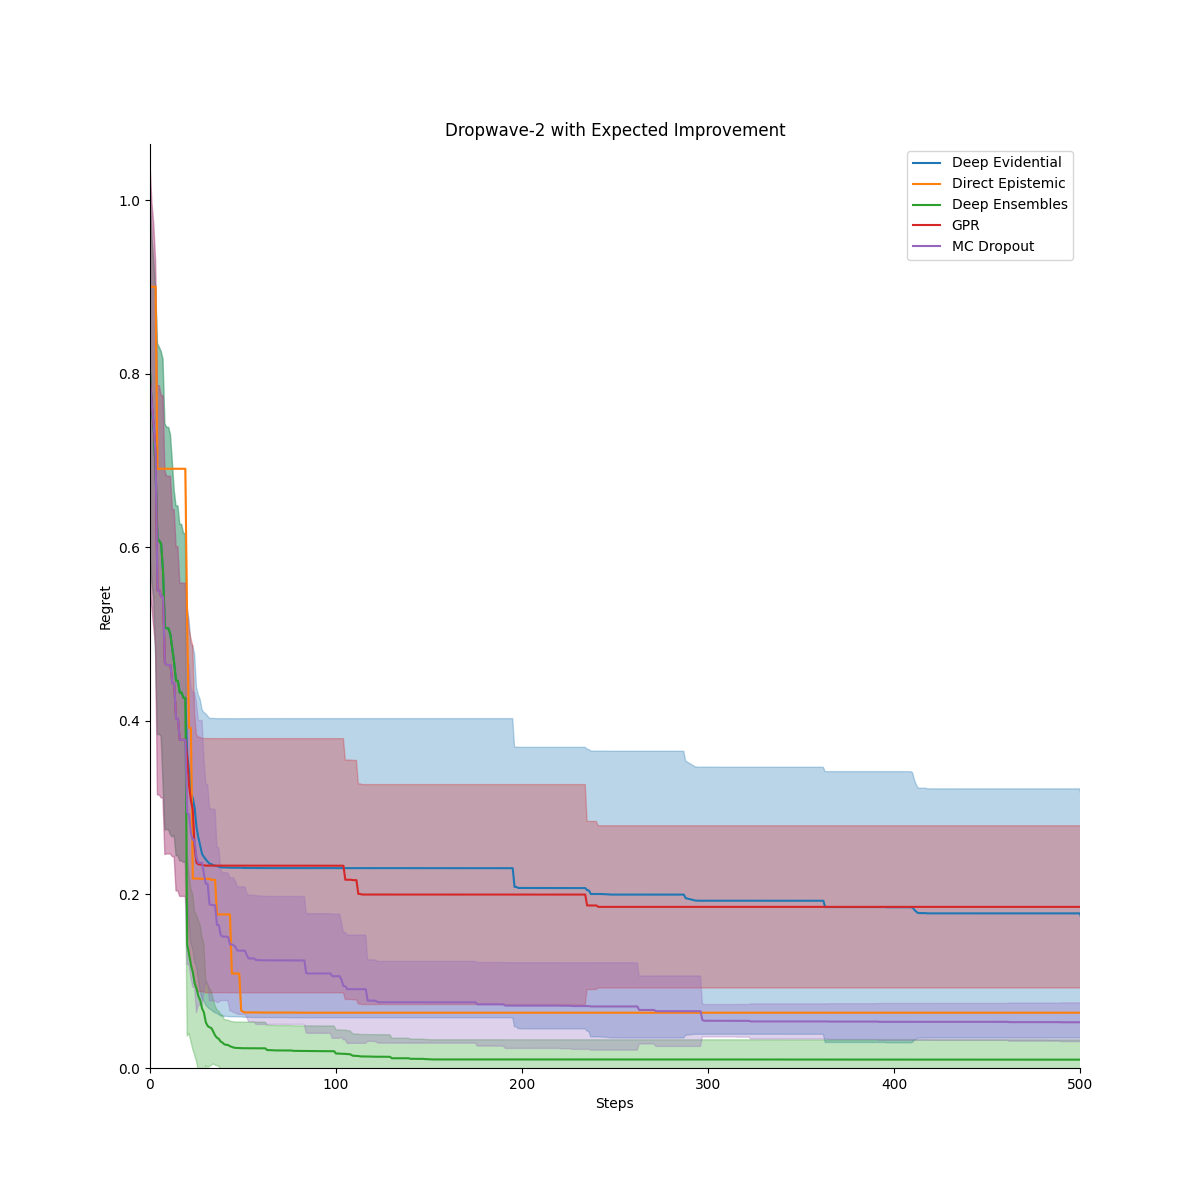
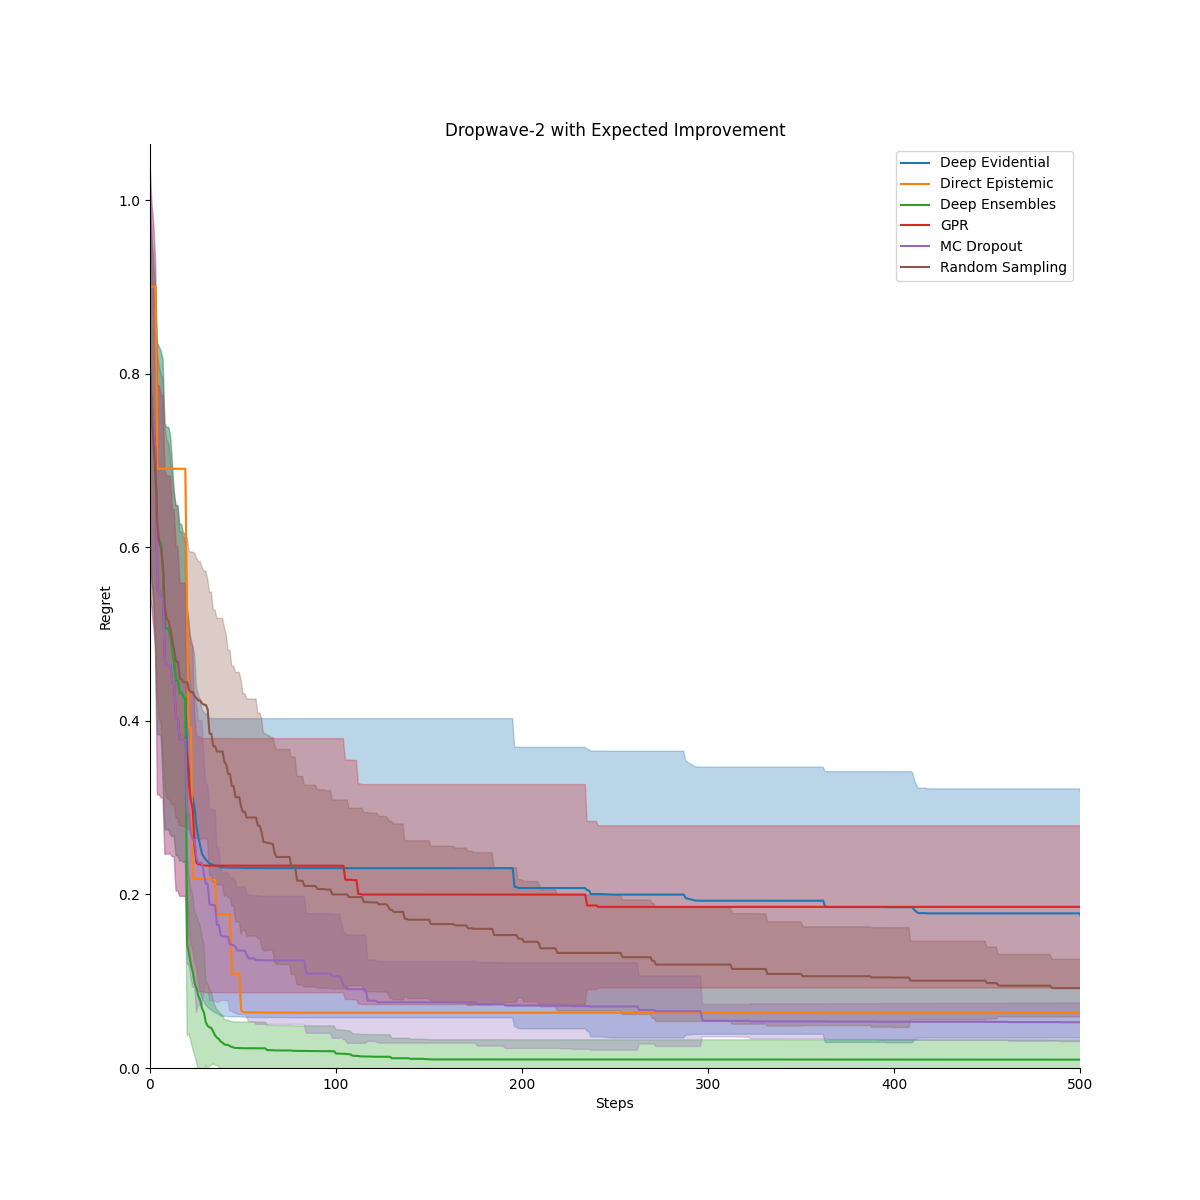
Added some better regret plots and success plots

Changed region(s): [[0.1233, 0.3083, 0.925, 0.8633], [0.7708, 0.1233, 0.8942, 0.2467]]

diff --git a/benchmarking/results_processing/utils/get_regret.py b/benchmarking/results_processing/utils/get_regret.py
@@ -7,6 +7,7 @@ import os
 import pandas as pd
 import pickle
 
+from plotting_params import *
 from typing import Tuple, Callable
 
 pd.set_option("display.max_rows", 300)
@@ -17,58 +18,6 @@ matplotlib.rcParams.update({
 })
 matplotlib.style.use("seaborn-bright")
 os.chdir(os.path.dirname(os.path.realpath(__file__)))
-
-RESULTS_DIR = os.path.realpath(os.path.join("..", "..", "results"))
-
-#Dict of keys: directory name; name: model prefix used in results; label: label for plotting.
-
-OBJECTIVE_DICT = {
-    "michal2": "Michalwicz-2",
-    "scaled_branin": "Scaled Branin-2",
-    "hartmann6": "Hartmann-6",
-    "goldstein2": "Log Goldstein-Price-2",
-    "shekel4": "Shekel-4",
-    "rosenbrock4": "Rosenbrock-4",
-    "ackley5": "Ackley-5",
-    "michal5": "Michalwicz-5",
-    "michal10": "Michalwicz-10",
-    "dropw2": "Dropwave-2",
-    "eggho2": "Eggholder-2"
-}
-
-ACQUISITION_DICT = {
-    "ei": "Expected Improvement",
-    "ts": "Thompson Sampling"
-}
-
-MODELS_DICT = {
-    "der": {
-        "name": "new_der_log",
-        "label": "Deep Evidential",
-    },
-    "deup": {
-        "name": "deup",
-        "label": "Direct Epistemic",
-    },
-    "de": {
-        "name": "de",
-        "label": "Deep Ensembles",
-    },
-    "gpr": {
-        "name": "gpr",
-        "label": "GPR",
-    },
-    "mc": {
-        "name": "mc",
-        "label": "MC Dropout",
-    },
-    "random": {
-        "name": "random",
-        "label": "Random Sampling",
-    },
-}
-
-COLOR_DICT = dict(zip(MODELS_DICT.keys(), matplotlib.colors.TABLEAU_COLORS.keys()))
 
 def simple_regret(record: pd.Series, datadir: str) -> Tuple[np.ndarray, np.ndarray]:
     """Gets the simple regret for a row of the results csv by opening
@@ -146,6 +95,8 @@ def average_regret(
     regret_name: str = "min_regret",
     compute_var: bool = True, 
     max_steps: int = 2020,
+    output_range_dict: dict = OUTPUT_RANGE_DICT,
+    scale_regret: bool = True,
 ) -> pd.DataFrame:
     """Computes regret statistics averaged over some columns (seed by default). 
 
@@ -168,6 +119,9 @@ def average_regret(
 
     def get_regret(record: pd.Series):
         record["steps"], record["regret"] = expand_regret(record, regret_function, max_steps, datadir)
+        if scale_regret:
+            output_range = output_range_dict[record["objective"]]
+            record["regret"] = record["regret"]/output_range
         return record
 
     groupby_cols = [col for col in results.columns if col not in (average_over + ignore_cols)]
@@ -219,6 +173,7 @@ def plot_regret(
     ylim: tuple = None,
     regret_color: str = "blue",
     std_alpha: float = 0.3,
+    log_scale: bool = False,
     scatter: bool = False,
     **plot_kwargs
 ):
@@ -260,6 +215,9 @@ def plot_regret(
     else:
         ax.set_ylim(0,)
 
+    if log_scale:
+        ax.set_yscale("log")
+
     if label != "":
         ax.legend()
 
@@ -284,7 +242,9 @@ def plot_min_regret_model_comparison(
     for model_dir, model_meta in model_dict.items():
         res = pd.read_csv(os.path.join(results_dir, model_dir, f"{model_meta['name']}_results.csv"), skipinitialspace=True)
         average_res = average_regret(res, os.path.join(results_dir, model_dir), **average_regret_kwargs)
-        average_res = average_res[(average_res["objective"] == objective) & (average_res["acquisition"] == acquisition)]
+        average_res = average_res[(average_res["objective"] == objective)]
+        if model_dir != "random":
+            average_res = average_res[(average_res["acquisition"] == acquisition)]
 
         if average_res.empty:
             continue
@@ -307,8 +267,8 @@ if __name__ == "__main__":
     model_name = "random"
     DATADIR = os.path.join(RESULTS_DIR, model_name)
     results = pd.read_csv(os.path.join(DATADIR, f"{model_name}_results.csv"), skipinitialspace=True)
-    grouped_results = average_regret(results, DATADIR)
-    fig = plot_regret(grouped_results.loc[0, "mean_min_regret"], grouped_results.loc[0, "var_min_regret"])
+    grouped_results = average_regret(results, DATADIR, log_regret=True)
+    fig = plot_regret(grouped_results.loc[0, "mean_min_regret"], grouped_results.loc[0, "var_min_regret"], log_scale=True)
     plt.show()
 
     f, a = plt.subplots()

diff --git a/benchmarking/results_processing/utils/plotting_params.py b/benchmarking/results_processing/utils/plotting_params.py
@@ -1,0 +1,86 @@
+
+import os
+from trieste.objectives.single_objectives import *
+
+RESULTS_DIR = os.path.realpath(os.path.join("..", "..", "results"))
+
+#Dict of keys: directory name; name: model prefix used in results; label: label for plotting.
+
+OBJECTIVE_DICT = {
+    "michal2": "Michalwicz-2",
+    "scaled_branin": "Scaled Branin-2",
+    "hartmann6": "Hartmann-6",
+    "hartmann3": "Hartmann-3",
+    "goldstein2": "Log Goldstein-Price-2",
+    "shekel4": "Shekel-4",
+    "rosenbrock4": "Rosenbrock-4",
+    "ackley5": "Ackley-5",
+    "michal5": "Michalwicz-5",
+    "michal10": "Michalwicz-10",
+    "dropw2": "Dropwave-2",
+    "eggho2": "Eggholder-2"
+}
+
+OBJ_MIN_DICT = {
+    "michal2": MICHALEWICZ_2_MINIMUM,
+    "scaled_branin": BRANIN_MINIMUM, 
+    "hartmann6": HARTMANN_6_MINIMUM, 
+    "goldstein2": LOGARITHMIC_GOLDSTEIN_PRICE_MINIMUM, 
+    "hartmann3": HARTMANN_3_MINIMUM, 
+    "shekel4": SHEKEL_4_MINIMUM, 
+    "rosenbrock4": ROSENBROCK_4_MINIMUM, 
+    "ackley5": ACKLEY_5_MINIMUM, 
+    "dropw2": DROPWAVE_MINIMUM, 
+    "eggho2": EGGHOLDER_MINIMUM,
+    "michal5": MICHALEWICZ_5_MINIMUM,
+    "michal10": MICHALEWICZ_10_MINIMUM
+}
+
+OUTPUT_RANGE_DICT = {
+    "michal2": 1.801303345635689, 
+    "scaled_branin": 5.918577123175378, 
+    "hartmann6": 3.303679123380341, 
+    "goldstein2": 5.246159889348281, 
+    "hartmann3": 3.862716226272016, 
+    "shekel4": 9.727798821861356, 
+    "rosenbrock4": 0.17934849140777742, 
+    "ackley5": 19.161816848081262, 
+    "dropw2": 0.9999982299815201, 
+    "eggho2": 2008.6400742211358,
+    "michal5": 1.8, #PLACEHOLDERS HERE
+    "michal10": 1.8, #PLACEHOLDERS HERE
+}
+
+ACQUISITION_DICT = {
+    "ei": "Expected Improvement",
+    "ts": "Thompson Sampling"
+}
+
+MODELS_DICT = {
+    "der": {
+        "name": "new_der_log",
+        "label": "Deep Evidential",
+    },
+    "deup": {
+        "name": "deup",
+        "label": "Direct Epistemic",
+    },
+    "de": {
+        "name": "de",
+        "label": "Deep Ensembles",
+    },
+    "gpr": {
+        "name": "gpr",
+        "label": "GPR",
+    },
+    "mc": {
+        "name": "mc",
+        "label": "MC Dropout",
+    },
+    "random": {
+        "name": "random",
+        "label": "Random Sampling",
+    },
+}
+
+COLOR_DICT = dict(zip(MODELS_DICT.keys(), matplotlib.colors.TABLEAU_COLORS.keys()))

diff --git a/benchmarking/results_processing/plot_success.py b/benchmarking/results_processing/plot_success.py
@@ -1,0 +1,44 @@
+#%%
+import matplotlib
+from matplotlib import tight_layout
+import matplotlib.pyplot as plt
+import os
+import pandas as pd
+import seaborn as sns
+
+matplotlib.rcParams.update({
+    "figure.figsize": (12, 12),
+    "axes.spines.top": False,
+    "axes.spines.right": False
+})
+matplotlib.style.use("seaborn-bright")
+matplotlib.use("tkagg")
+os.chdir(os.path.dirname(os.path.realpath(__file__)))
+os.makedirs(os.path.join("figs", "success"), exist_ok=True)
+
+stats = pd.read_csv("stats_flattened.csv")
+
+#%%
+
+for model in stats["model"].unique():
+    f, a = plt.subplots()
+    sns.barplot("objective", "found_min", hue="acquisition", data=stats[stats["model"]==model], ax=a)
+    a.set_title(f"{model}")
+    f.savefig(os.path.join("figs", "success", f"{model}_success.png"), facecolor="white", transparent=False)
+    f.clear()
+    plt.close(f)
+
+f, a = plt.subplots()
+sns.barplot("objective", "found_min", hue="acquisition", data=stats, ax=a)
+a.set_title("Overall")
+f.savefig(os.path.join("figs", "success", f"overall_success.png"), facecolor="white", transparent=False)
+
+f, ax = plt.subplots(3, 2, tight_layout=True)
+sns.barplot("objective", "found_min", hue="acquisition", data=stats, ax=ax.ravel()[0])
+ax.ravel()[0].set_xticklabels(ax.ravel()[0].get_xticklabels(), rotation=45, horizontalalignment='right')
+ax.ravel()[0].set_title("Overall")
+for model, a in zip(stats["model"].unique(), ax.ravel()[1:]):
+    sns.barplot("objective", "found_min", hue="acquisition", data=stats[stats["model"]==model], ax=a)
+    a.set_title(f"{model}")
+    a.set_xticklabels(a.get_xticklabels(), rotation=45, horizontalalignment='right')
+f.savefig(os.path.join("figs", "success", f"all_success.png"), facecolor="white", transparent=False)
